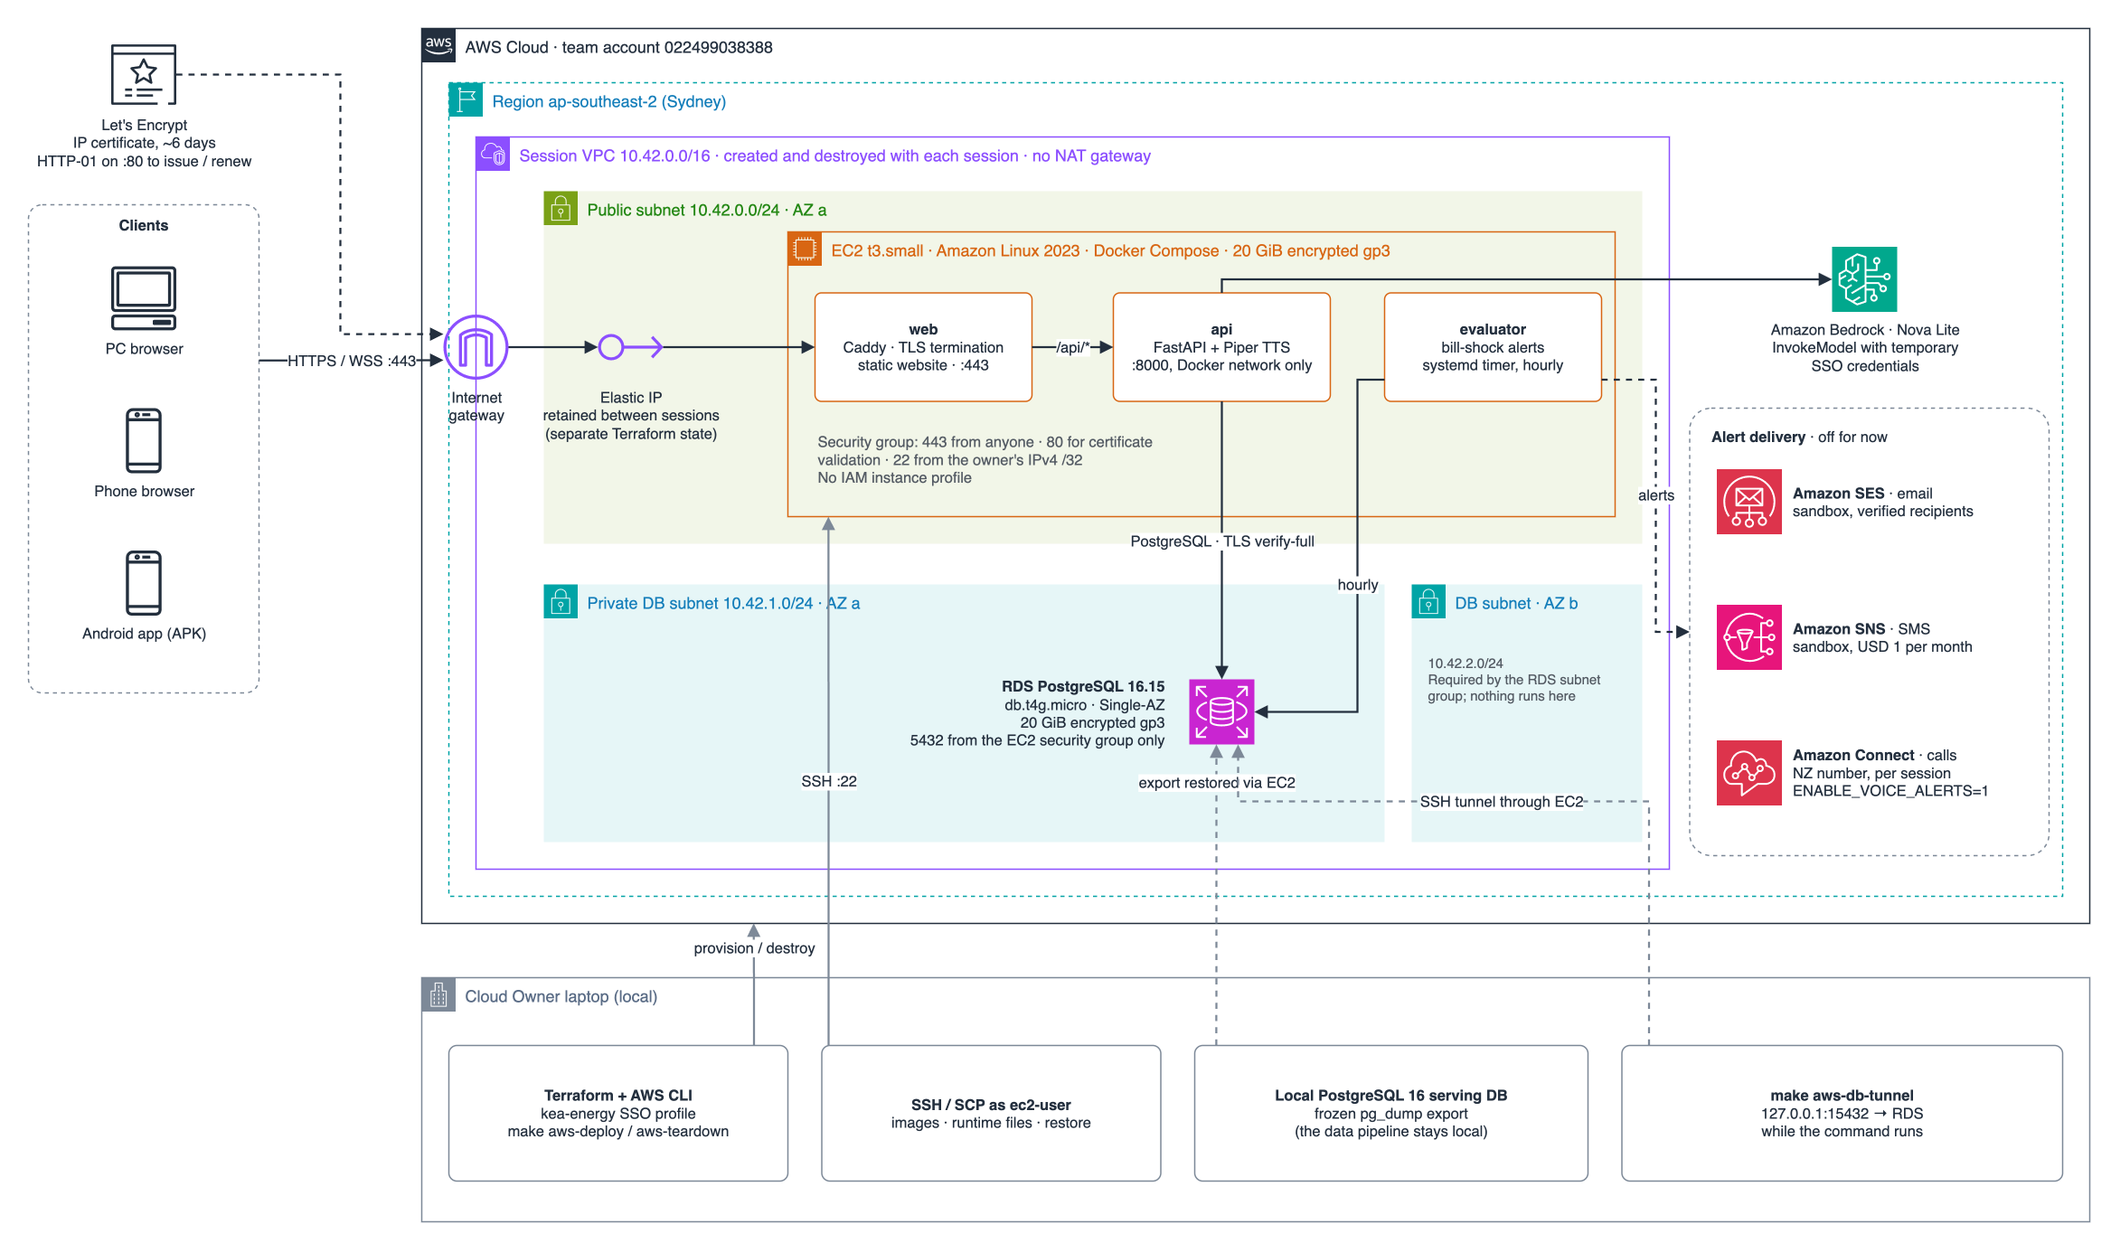
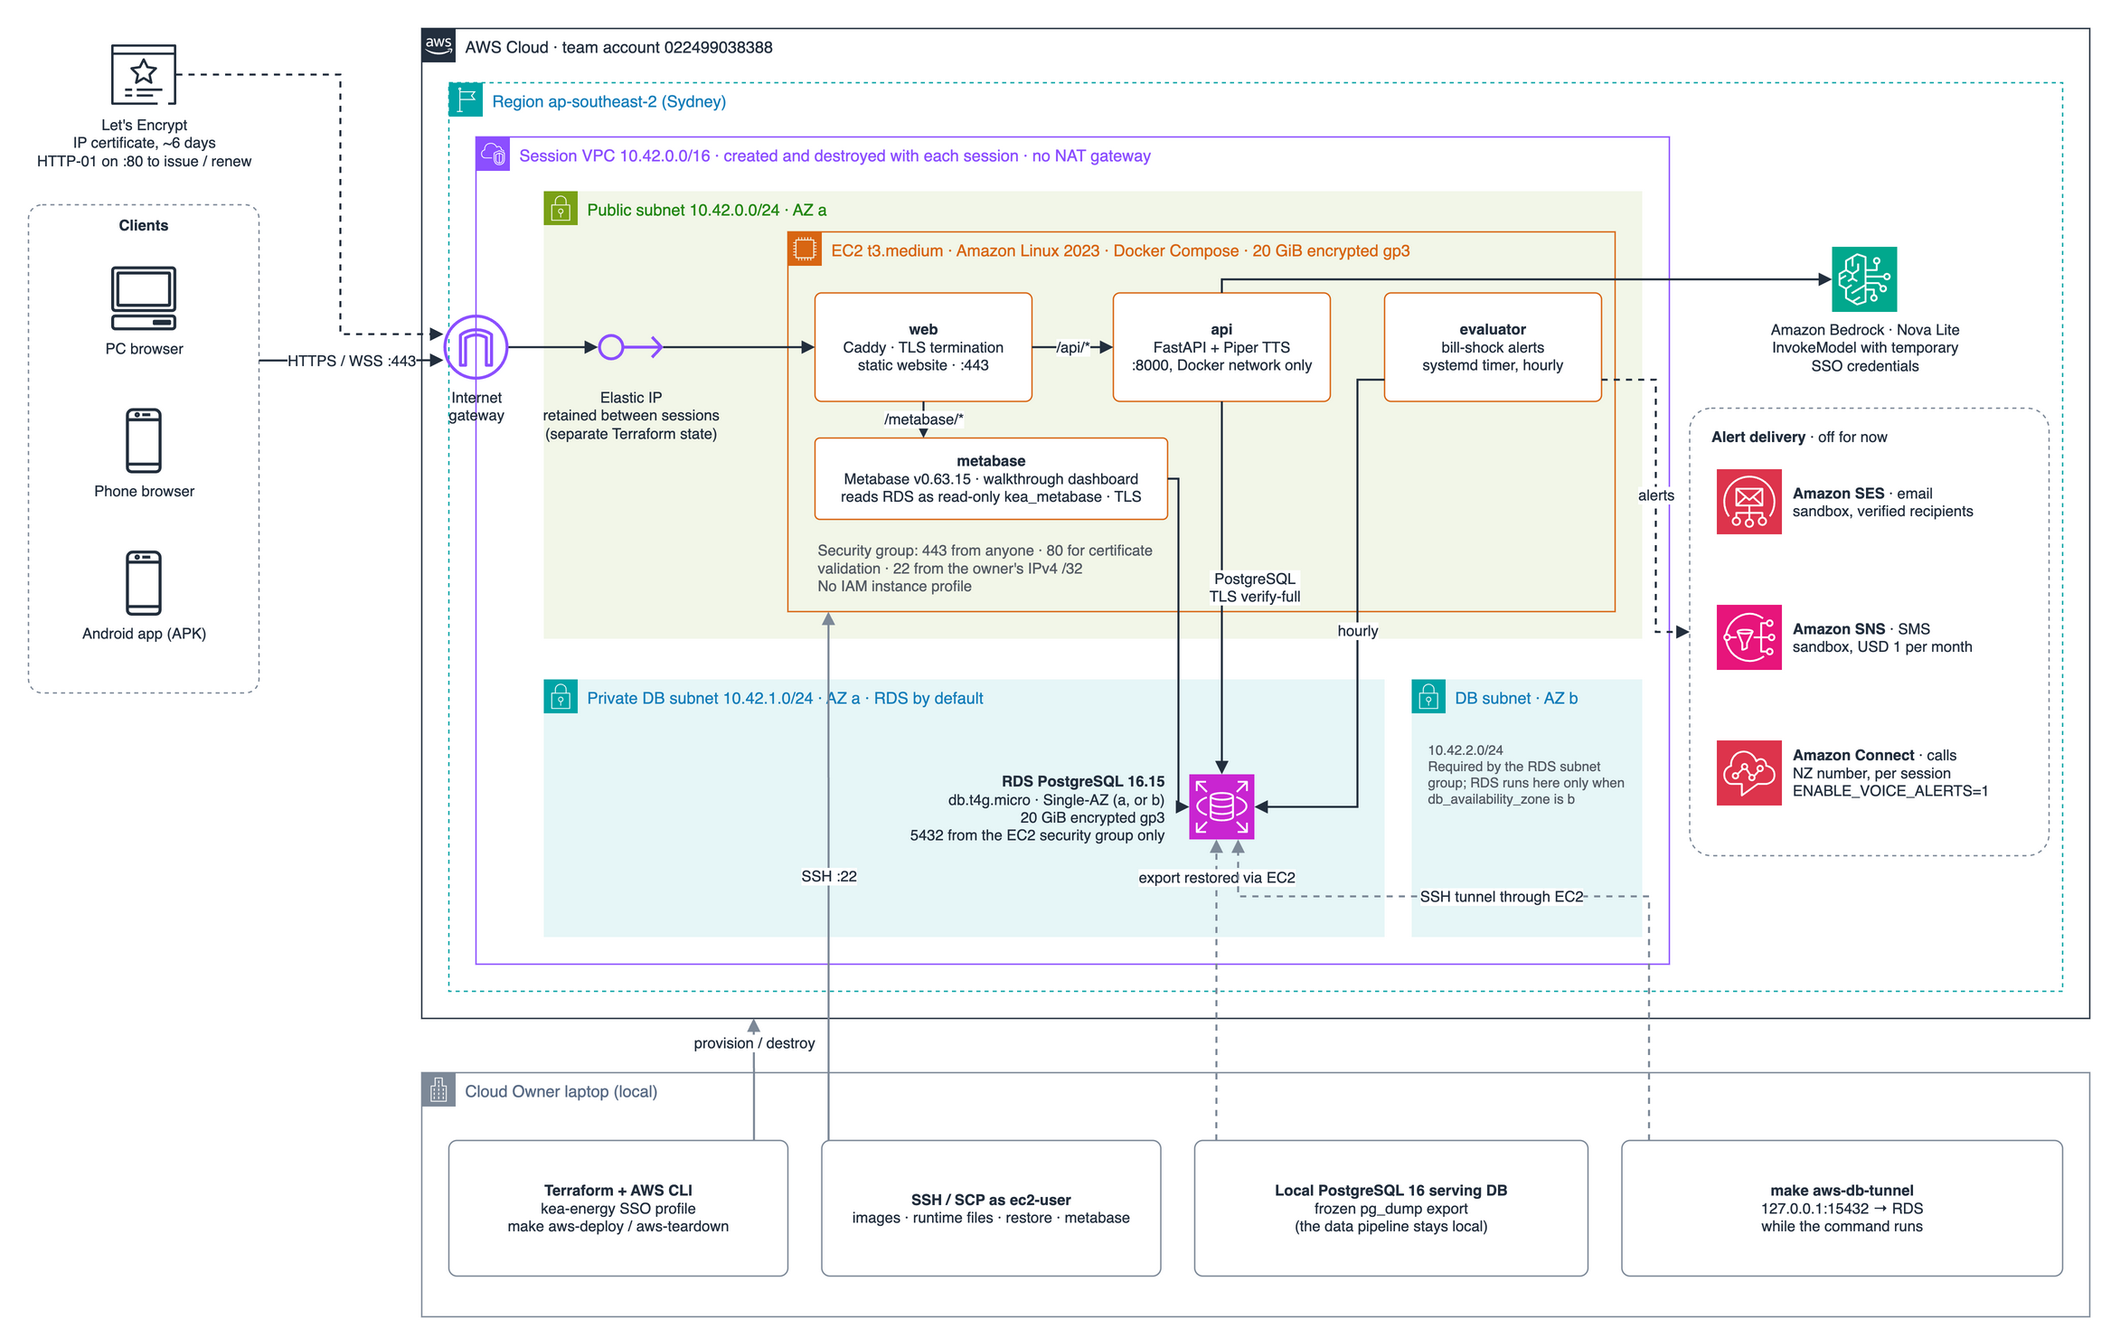
feat(aws): run Metabase and the demo walkthrough on EC2 (#368)

diff --git a/infra/aws/tests/test_metabase_deploy.py b/infra/aws/tests/test_metabase_deploy.py
@@ -1,0 +1,121 @@
+import importlib.util
+import io
+import re
+import subprocess
+import tempfile
+import unittest
+from contextlib import redirect_stderr
+from pathlib import Path
+from unittest.mock import patch
+
+ROOT = Path(__file__).resolve().parents[1]
+
+
+def load(name):
+    path = ROOT / "scripts" / f"{name}.py"
+    spec = importlib.util.spec_from_file_location(name, path)
+    module = importlib.util.module_from_spec(spec)
+    spec.loader.exec_module(module)
+    return module
+
+
+database = load("database_credentials")
+configure = load("configure_rds")
+
+
+def service(compose: str, name: str) -> str:
+    """The text of one top-level Compose service, up to the next one."""
+    match = re.search(rf"^  {name}:\n(.*?)(?=^  \S|^\S|\Z)", compose, re.S | re.M)
+    if match is None:
+        raise AssertionError(f"no service {name!r}")
+    return match.group(1)
+
+
+class MetabaseCredentialTests(unittest.TestCase):
+    def test_metabase_passwords_are_owner_only_and_reused(self):
+        with tempfile.TemporaryDirectory() as temporary:
+            directory = Path(temporary)
+            database.prepare(directory)
+            first = {name: (directory / name).read_text()
+                     for name in ("metabase-db-password", "metabase-admin-password")}
+            database.prepare(directory, "demo.example.ap-southeast-2.rds.amazonaws.com")
+            for name, value in first.items():
+                self.assertEqual((directory / name).read_text(), value)
+                self.assertEqual((directory / name).stat().st_mode & 0o777, 0o600)
+            # The API's client file never carries Metabase's login.
+            self.assertNotIn(first["metabase-db-password"].strip(),
+                             (directory / "db-client.env").read_text())
+
+    def test_rds_setup_creates_the_read_only_login_and_redacts_it(self):
+        with tempfile.TemporaryDirectory() as temporary:
+            directory = Path(temporary)
+            database.prepare(directory)
+            secret = (directory / "metabase-db-password").read_text().strip()
+            failed = subprocess.CompletedProcess([], 1, "", f"ERROR near '{secret}'")
+            with patch("sys.argv", ["configure_rds", str(directory), "--public-ip", "192.0.2.10"]), \
+                    patch.object(configure.subprocess, "run", return_value=failed) as run, \
+                    redirect_stderr(io.StringIO()) as stderr:
+                self.assertEqual(configure.main(), 1)
+            sql = run.call_args.kwargs["input"]
+            self.assertIn("CREATE ROLE kea_metabase LOGIN PASSWORD", sql)
+            self.assertNotIn("SUPERUSER", sql)
+            self.assertNotIn(secret, stderr.getvalue())
+
+
+class MetabaseStackTests(unittest.TestCase):
+    compose = (ROOT / "ec2/compose.yml").read_text()
+
+    def test_metabase_never_receives_the_api_credentials(self):
+        metabase = service(self.compose, "metabase")
+        self.assertNotIn("env_file", metabase)
+        self.assertNotIn("<<: *api", metabase)
+        self.assertIn("mem_limit:", metabase)
+        self.assertIn("MB_SITE_URL: ${KEA_CORS_ORIGINS}/metabase/", metabase)
+        self.assertNotIn("ports:", metabase)
+
+    def test_walkthrough_login_is_enabled_for_the_demo(self):
+        self.assertIn("KEA_GENERATED_DEMO_LOGIN: '1'", self.compose)
+
+    def test_caddy_serves_metabase_under_a_path_on_443(self):
+        caddy = (ROOT / "ec2/Caddyfile").read_text()
+        self.assertRegex(caddy, r"handle_path /metabase/\* \{\s*reverse_proxy metabase:3000")
+        self.assertIn("redir /metabase /metabase/", caddy)
+
+
+class MetabaseStepTests(unittest.TestCase):
+    operations = (ROOT / "scripts/operations.sh").read_text()
+
+    def test_deploy_runs_metabase_after_verify_and_before_the_apk(self):
+        steps = re.search(r"for step in (login [^;]*); do", self.operations).group(1).split()
+        self.assertEqual(steps[steps.index("verify") + 1], "metabase")
+        self.assertLess(steps.index("metabase"), steps.index("mobile"))
+
+    def test_metabase_step_pins_the_story_date_and_grants_only_reads(self):
+        body = re.search(r"^step_metabase\(\) \{\n(.*?)^\}", self.operations, re.S | re.M).group(1)
+        self.assertIn("data/pipeline/scripts/ops/serving_as_of.sql", body)
+        grants = re.findall(r"^GRANT .*$", body, re.M)
+        self.assertTrue(grants)
+        for grant in grants:
+            self.assertRegex(grant, r"^GRANT (CONNECT|USAGE|SELECT) ")
+        self.assertIn("db-client.env", body)
+        self.assertNotIn("db-admin.env", body)
+
+    def test_metabase_has_a_make_target(self):
+        makefile = (ROOT / "Makefile").read_text()
+        self.assertRegex(makefile, r"(?m)^metabase:\n\t@bash scripts/operations.sh metabase$")
+
+
+class CapacityTests(unittest.TestCase):
+    def test_host_is_big_enough_for_metabase(self):
+        main = (ROOT / "ec2/main.tf").read_text()
+        self.assertRegex(main, r'variable "instance_type" \{[^}]*default = "t3.medium"')
+
+    def test_database_zone_is_a_validated_variable(self):
+        rds = (ROOT / "ec2/rds.tf").read_text()
+        self.assertIn("availability_zone                   = var.db_availability_zone", rds)
+        self.assertIn('contains(["ap-southeast-2a", "ap-southeast-2b"], var.db_availability_zone)', rds)
+        self.assertNotRegex(rds, r'availability_zone\s+= "ap-southeast-2[ab]"')
+
+
+if __name__ == "__main__":
+    unittest.main()

diff --git a/infra/aws/scripts/configure_rds.py b/infra/aws/scripts/configure_rds.py
@@ -15,10 +15,18 @@ def main() -> int:
     directory = args.directory
     app_password = (directory / "db-app-password").read_text().strip()
     escaped = app_password.replace("'", "''")
+    metabase_password = (directory / "metabase-db-password").read_text().strip()
+    metabase_escaped = metabase_password.replace("'", "''")
+    # kea_metabase is created here because only the administrator may create
+    # roles; its SELECT grants follow the restore (make metabase), once the
+    # tables exist, and are given by their owner, kea.
     sql = f"""
 DO $body$ BEGIN
     IF NOT EXISTS (SELECT FROM pg_roles WHERE rolname='kea') THEN
         CREATE ROLE kea LOGIN PASSWORD '{escaped}';
+    END IF;
+    IF NOT EXISTS (SELECT FROM pg_roles WHERE rolname='kea_metabase') THEN
+        CREATE ROLE kea_metabase LOGIN PASSWORD '{metabase_escaped}';
     END IF;
 END $body$;
 GRANT kea TO kea_admin;
@@ -33,7 +41,8 @@ ALTER SCHEMA public OWNER TO kea;
     result = subprocess.run(command, input=sql, text=True, capture_output=True)
     if result.returncode:
         # PostgreSQL error context may repeat a statement; never expose its password.
-        print(result.stderr.replace(app_password, "[REDACTED]"), file=sys.stderr)
+        print(result.stderr.replace(app_password, "[REDACTED]")
+              .replace(metabase_password, "[REDACTED]"), file=sys.stderr)
         return result.returncode
     print("RDS application PostgreSQL owner configured.")
     return 0

diff --git a/infra/aws/scripts/database_credentials.py b/infra/aws/scripts/database_credentials.py
@@ -29,6 +29,10 @@ def prepare(directory: Path, host: str | None = None) -> None:
     directory.mkdir(mode=0o700, parents=True, exist_ok=True)
     master = password(directory / "db-master-password")
     app = password(directory / "db-app-password")
+    # Metabase's read-only RDS login, and its own administrator. Neither reaches
+    # runtime.env, so the API never holds them and Metabase never holds the API's.
+    password(directory / "metabase-db-password")
+    password(directory / "metabase-admin-password")
     if host is None:
         return
     if not re.fullmatch(r"[a-z0-9.-]+\.ap-southeast-2\.rds\.amazonaws\.com", host):

diff --git a/infra/aws/deployment-plan.md b/infra/aws/deployment-plan.md
@@ -13,12 +13,13 @@ timer.
 | --- | --- |
 | Account / region | Team account `022499038388`, Sydney `ap-southeast-2` |
 | Operator identity | `kea-energy` AWS SSO profile |
-| Application compute | Amazon Linux x86-64 EC2 `t3.small`, no IAM instance profile |
+| Application compute | Amazon Linux x86-64 EC2 `t3.medium` (4 GiB, sized for Metabase beside the API), no IAM instance profile |
 | Application storage | 20 GiB encrypted gp3 EBS, deleted with the EC2 session |
-| Database | RDS PostgreSQL `16.15`, `db.t4g.micro`, Single-AZ |
+| Database | RDS PostgreSQL `16.15`, `db.t4g.micro`, Single-AZ in `a` by default (`TF_VAR_db_availability_zone`) |
 | Database storage | 20 GiB encrypted gp3; no storage autoscaling configured |
 | Database network | Private endpoint, port 5432 allowed only from the application security group |
-| Database authentication | Ordinary PostgreSQL login `kea` and password, certificate-verified TLS |
+| Database authentication | Ordinary PostgreSQL login `kea` and password, certificate-verified TLS; read-only `kea_metabase` for Metabase |
+| Reporting | Metabase `v0.63.15` at `https://<ip>/metabase/` with the demo walkthrough dashboard; its own H2 store on the host |
 | Database administration | Separate `kea_admin` login used only for setup and import |
 | Backend debugging | SSH tunnel through EC2 to local `127.0.0.1:15432`; separate teammate SSH and PostgreSQL accounts |
 | Backups | One-day automated backup retention while the database exists |
@@ -49,12 +50,17 @@ draw.io -x -f png -s 1.5 -b 20 -o architecture.png architecture.drawio
 VPC, public application subnet, two private database subnets, internet gateway,
 route table, security groups, SSH key, EC2 instance, RDS subnet group and RDS
 instance. The database subnet group spans Sydney AZs `a` and `b`, while the
-Single-AZ database itself runs in `a`. The private subnets need no NAT gateway.
+Single-AZ database itself runs in `a` unless `TF_VAR_db_availability_zone`
+moves it to `b`: on 6 October 2026 AWS had no `db.t4g.micro` capacity in `a`
+(`InsufficientDBInstanceCapacity`). The private subnets need no NAT gateway.
 A separate [address/](address/) Terraform state retains the Elastic IP between
 future deployments.
 
-[ec2/compose.yml](ec2/compose.yml) runs the website, API/Piper and evaluator.
-The PostgreSQL container image is used only as a short-lived client for
+[ec2/compose.yml](ec2/compose.yml) runs the website, API/Piper, evaluator and
+Metabase. Caddy serves Metabase at `/metabase/` on the same port 443, so it
+needs no security-group rule. Metabase reads RDS as the read-only
+`kea_metabase` login and never receives the API's runtime file or its AWS
+credentials. The PostgreSQL container image is used only as a short-lived client for
 `psql` and `pg_restore`; it does not run the deployed database server. The
 API port remains private to Docker. EC2 permits HTTP 80 for certificate
 validation, HTTPS 443 for clients, and SSH 22 from the owner's IPv4 `/32`.
@@ -108,7 +114,8 @@ ControlTower or CloudHealth resources.
    PostgreSQL 16 serving database. `SOURCE_PAUSED=1` confirms that the owner
    has performed that pause; it does not pause writers automatically.
 3. Allocate or reuse the retained Elastic IP, create the session directory and
-   SSH key, and generate separate administrator and application database passwords.
+   SSH key, and generate separate administrator, application and Metabase
+   passwords.
 4. Review and apply Terraform to create EC2, private RDS and the session network.
    Terraform 1.11+ supplies the administrator password through an ephemeral
    variable and the provider's write-only `password_wo` argument. Neither state
@@ -120,7 +127,8 @@ ControlTower or CloudHealth resources.
 7. Install mode-0600, root-owned runtime and database client files over SSH.
    The API runtime contains its PostgreSQL login and temporary Sydney Bedrock
    credentials. The administrator client file is separate from the API runtime.
-8. Create the ordinary PostgreSQL application owner `kea`. Restore with
+8. Create the ordinary PostgreSQL application owner `kea` and the login
+   `kea_metabase`, which has no privileges yet. Restore with
    PostgreSQL 16 `pg_restore --role=kea --no-owner --no-acl --exit-on-error`,
    then remove the administrator client file from EC2. Verify every exported
    table count, sequence state, extension and encrypted connection before
@@ -129,7 +137,14 @@ ControlTower or CloudHealth resources.
    and verify HTTPS, login and database-backed usage. Bedrock and voice checks
    also require current model credentials. Alert delivery remains disabled
    (see [Alert delivery](#alert-delivery)).
-10. Build the Android APK for the HTTPS API URL. Install it only through the
+10. Pin the served data to the story date with
+    `data/pipeline/scripts/ops/serving_as_of.sql` (the newest forecast date), so
+    the app opens on the walkthrough's billing cycle rather than the end of the
+    generated span. As `kea`, grant `kea_metabase` read access to the `kea`,
+    `billing`, `metering` and `catalogue` schemas, start Metabase, then connect
+    it and build the walkthrough dashboard with the `data/analysis/metabase`
+    builders. `make -C infra/aws metabase` is safe to repeat.
+11. Build the Android APK for the HTTPS API URL. Install it only through the
     separate `install-apk` command when requested. Keep the deployment running
     until the Cloud Owner requests teardown.
 

diff --git a/infra/aws/README.md b/infra/aws/README.md
@@ -3,8 +3,9 @@
 The [deployment plan](deployment-plan.md) describes the Sydney architecture.
 The [Makefile](Makefile) is the executable deploy, maintenance and teardown
 workflow. It retains one Sydney Elastic IP between sessions and creates one
-disposable EC2 host running Caddy, the website, API/Piper and an hourly
-evaluator, alongside private RDS PostgreSQL 16. The data pipeline stays local;
+disposable EC2 host running Caddy, the website, API/Piper, an hourly
+evaluator and Metabase with the demo walkthrough dashboard, alongside private
+RDS PostgreSQL 16. The data pipeline stays local;
 only the local serving database export is restored into RDS.
 
 ## Prerequisites
@@ -59,8 +60,26 @@ subnets and the IP association. It issues
 a trusted certificate for that IP, builds and transfers the images, exports
 temporary SSO credentials for Sydney Bedrock, restores RDS over verified TLS,
 checks every exported table count and sequence state, verifies
-HTTPS and row counts, then builds the Android APK. Installing the APK is an
+HTTPS and row counts, pins the served data to the story date and starts
+Metabase with the walkthrough dashboard (see [Metabase](#metabase)), then
+builds the Android APK. Installing the APK is an
 optional, separate command. Resume local writes after the export has completed.
+
+If `apply-create` stops with `InsufficientDBInstanceCapacity` for
+`ap-southeast-2a`, AWS has no `db.t4g.micro` there at the moment. Put the
+database in the other subnet's zone and continue the same session:
+
+```bash
+export TF_VAR_db_availability_zone=ap-southeast-2b
+make -C infra/aws plan-create SESSION_ID=<session-id>
+make -C infra/aws apply-create SESSION_ID=<session-id>
+```
+
+Add `export TF_VAR_db_availability_zone=ap-southeast-2b` to that session's
+`operator.env` too, so later plans and the teardown agree with it. The re-plan
+also replaces the still-empty EC2 instance (once the Elastic IP is attached,
+Terraform sees `associate_public_ip_address` change); that is expected before
+`host` has run.
 
 Terraform state, SSH keys, credentials and dumps stay in the ignored
 `infra/aws/.work/` directory. Never commit them. The retained address has its
@@ -121,6 +140,26 @@ The `mobile` step builds for `arm64-v8a` by default, which covers practically
 every Android phone in use and keeps the download small. Set `ANDROID_ABIS=all`
 for every architecture (older 32-bit phones, x86 emulators), or a comma list
 such as `ANDROID_ABIS=arm64-v8a,armeabi-v7a`.
+
+## Metabase
+
+The `metabase` step (run by the deploy after `verify`) serves Metabase at
+`https://<ip>/metabase/` with the demo walkthrough dashboard. It:
+
+1. pins the served data to the newest forecast date with
+   [`serving_as_of.sql`](../../data/pipeline/scripts/ops/serving_as_of.sql), so
+   the app opens on the walkthrough's billing cycle; it removes the observed
+   rows after that date from the serving marts;
+2. grants the read-only `kea_metabase` login (created during `restore`) SELECT
+   on the `kea`, `billing`, `metering` and `catalogue` schemas;
+3. restarts the API, starts Metabase, connects it to RDS over TLS and builds
+   the walkthrough with the `data/analysis/metabase` builders.
+
+Sign in as `admin@kea.example`; the password is `metabase-admin-password` in
+the session directory (`pbcopy < infra/aws/.work/public-<session-id>/metabase-admin-password`).
+The step is safe to repeat: `make -C infra/aws metabase SESSION_ID=<session-id>`.
+Metabase keeps its questions in an H2 file on the host, so a teardown deletes
+them with the instance and the next deploy builds them again.
 
 ## Backend database access
 
@@ -241,6 +280,13 @@ matched, as did the extensions. TLS verified the RDS certificate and hostname,
 and the local SSH tunnel reached the private database and completed PostgreSQL
 TLS negotiation. The subsequent teardown deleted all 13 session resources,
 including RDS and its backups, and the Sydney audit found no remnants.
+
+On 6 October 2026 session `20261004231334` was torn down (14 resources, audit
+clear) and session `20261005222619` deployed from main with the database in
+`ap-southeast-2b`; all 118 records matched again. The instance was moved to
+`t3.medium` and the `metabase` step was run against it twice: the second run
+removed no rows and updated the 11 walkthrough questions in place, every one
+returning data.
 
 RDS adds separate compute and storage costs. Stopping it continues storage
 charges, and AWS restarts it after seven days; explicit teardown is needed to
